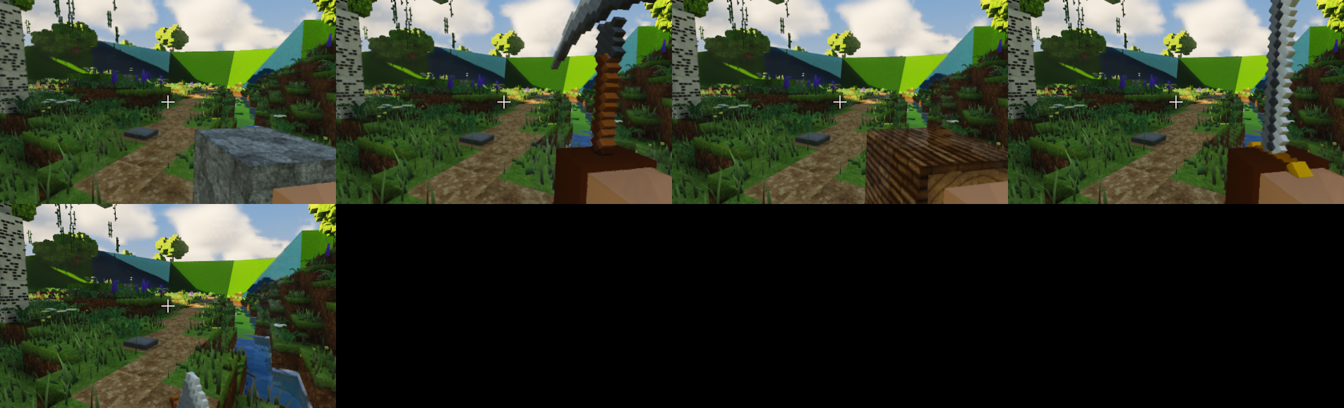
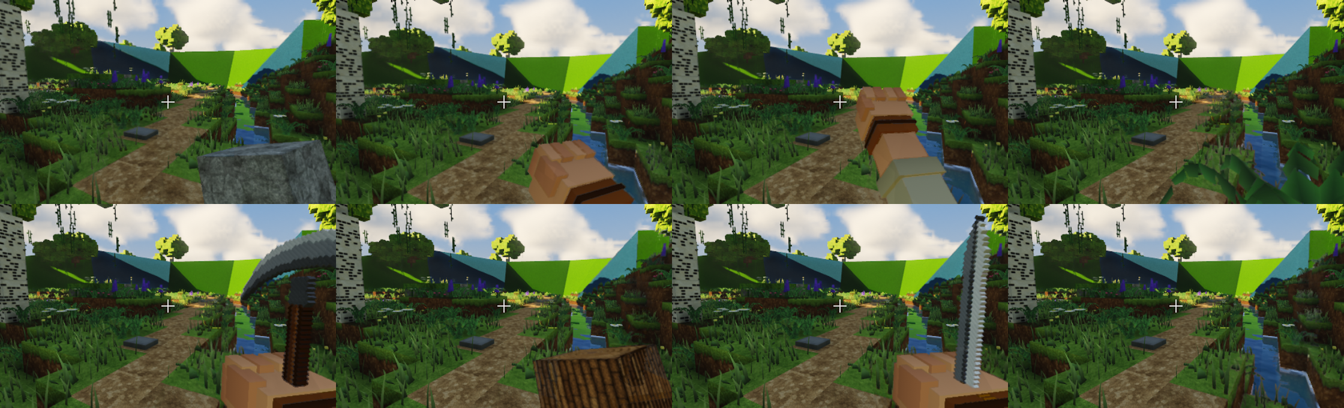
Inventaire au glisser-déposer, poing et bloc visibles en première personne
Claude-Session: https://claude.ai/code/session_01KceHewVNbQWqUpi5GGYtf6

diff --git a/dist/index.html b/dist/index.html
@@ -31,7 +31,7 @@ input,select{width:100%;background:#0005;border:1px solid var(--line);color:var(
 #loading{background:#10140d;flex-direction:column;gap:16px}#loading h1{font-size:clamp(26px,5vw,44px);margin:0;letter-spacing:.03em}#loadTrack{width:min(340px,70vw);height:8px;border-radius:4px;background:#ffffff1c;overflow:hidden}#loadbar{height:100%;width:0;background:var(--accent);transition:width .2s}
 #inv .card{width:min(620px,100%)}#inv h2{display:flex;justify-content:space-between;align-items:center;gap:12px}#inv h2 button{font-size:13px;padding:6px 10px}
 .grid9{display:grid;grid-template-columns:repeat(9,1fr);gap:4px}#invBar{margin-top:10px;padding-top:10px;border-top:1px solid var(--line)}
-.cell{padding:0;border:2px solid transparent;cursor:pointer;min-width:0;color:var(--ink)}.cell.on{border-color:var(--accent);background:#9ed44a33}.cell.sel{box-shadow:inset 0 0 0 1px #fff8}.cell span{position:absolute;left:0;right:0;bottom:1px;font:600 9.5px/1.1 system-ui;text-align:center;text-shadow:0 1px 2px #000;pointer-events:none}.cell img{inset:6%;width:88%;height:88%}
+.cell{padding:0;border:2px solid transparent;cursor:grab;min-width:0;color:var(--ink);touch-action:none;user-select:none;-webkit-user-select:none;-webkit-touch-callout:none}.cell.over{border-color:var(--accent);background:#9ed44a33}.cell.lifted img,.cell.lifted b{opacity:.25}.cell.sel{box-shadow:inset 0 0 0 1px #fff8}#dragGhost{position:fixed;width:60px;height:60px;transform:translate(-50%,-50%);pointer-events:none;z-index:8;filter:drop-shadow(0 4px 6px #0009)}.cell span{position:absolute;left:0;right:0;bottom:1px;font:600 9.5px/1.1 system-ui;text-align:center;text-shadow:0 1px 2px #000;pointer-events:none}.cell img{inset:6%;width:88%;height:88%}
 #catTabs{display:flex;flex-wrap:wrap;gap:4px;margin:6px 0 8px}.tab{padding:6px 10px;font-size:13px}.tab.on{background:#6b9a2b;border-color:#8cbe41}#catItems{display:grid;grid-template-columns:repeat(auto-fill,minmax(68px,1fr));gap:4px}#invTip{min-height:18px;font-size:12px;opacity:.85;margin-top:6px}#inv p{margin:6px 0 0;font-size:12.5px;opacity:.75}
 #tInv{top:calc(62px + env(safe-area-inset-top,0px));bottom:auto!important;right:162px!important;width:64px!important;height:36px!important;border-radius:8px!important}#tView{top:calc(62px + env(safe-area-inset-top,0px));bottom:auto!important;right:234px!important;width:64px!important;height:36px!important;border-radius:8px!important}#tRun,#tLow{left:18px;right:auto!important;bottom:210px;width:64px!important;height:48px!important;border-radius:8px!important}#tLow{left:90px}#tRun.on,#tLow.on{background:#6b9a2b}#tFly,#tDown{display:none;left:18px;right:auto!important;bottom:150px;width:64px!important;height:48px!important;border-radius:8px!important}#tDown{left:90px}.crea #tFly,.crea.flying #tDown{display:block}
 #fatal{position:fixed;inset:0;display:none;align-items:center;justify-content:center;background:#10140d;padding:24px;text-align:center;z-index:9}#fatal.on{display:flex}
@@ -60,8 +60,8 @@ input,select{width:100%;background:#0005;border:1px solid var(--line);color:var(
 <div class="row"><label for="inFov">Champ de vision</label><input id="inFov" type="range" min="55" max="100"></div><div class="row"><label for="inSens">Sensibilité</label><input id="inSens" type="range" min=".3" max="2.5" step=".1"></div>
 <h3>Commandes</h3><div class="keys"><b>ZQSD / WASD</b><span>se déplacer</span><b>Espace</b><span>sauter, remonter dans l'eau</span><b>Maj / Ctrl</b><span>sprint / s'accroupir</span><b>1 à 9, molette</b><span>objet sélectionné</span><b>E</b><span>inventaire</span><b>G</b><span>survie ou créatif</span><b>F, Espace 2 fois</b><span>voler en créatif</span><b>Ctrl</b><span>descendre en vol</span><b>C</b><span>changer de caméra</span><b>R</b><span>orientation du bloc</span><b>T / Y</b><span>avancer l'heure / figer le temps</span><b>F3</b><span>profilage</span><b>F5</b><span>sauvegarde rapide</span></div></div></div>
 <div class="layer" id="inv"><div class="card"><h2><span id="invTitle">Inventaire</span><button id="invClose">Fermer</button></h2>
-<div id="invCreative" hidden><div id="catTabs"></div><div id="catItems"></div><div id="invTip">Touchez un objet pour le mettre dans la case sélectionnée.</div></div>
-<div class="grid9" id="invBag" style="margin-top:12px"></div><div class="grid9" id="invBar"></div><p>Touchez une case, puis une autre, pour échanger leur contenu.</p></div></div>
+<div id="invCreative" hidden><div id="catTabs"></div><div id="catItems"></div><div id="invTip">Glissez un objet vers une case, ou touchez-le pour remplir la case sélectionnée. Glissez une case hors de la grille pour la vider.</div></div>
+<div class="grid9" id="invBag" style="margin-top:12px"></div><div class="grid9" id="invBar"></div><p>Glissez un objet vers une case. Touchez une case de la barre pour la sélectionner.</p></div></div><img id="dragGhost" alt="" hidden>
 <div class="layer on" id="loading"><h1>A LIVING WORLD</h1><div id="loadTrack"><div id="loadbar"></div></div></div>
 <div id="fatal"></div>
 <script>(()=>{// Core/noise.js — hachage et bruits déterministes. Aucun appel à Math.random dans la génération :
@@ -2299,9 +2299,18 @@ function buildCharacter(r) {
       Bx(o, [-0.09, -0.26, -0.1, 0.09, 0, 0.1], C.shirt); Bx(o, [-0.1, -0.32, -0.11, 0.1, -0.26, 0.11], C.shirt2); Bx(o, [-0.085, -0.56, -0.09, 0.085, -0.32, 0.09], C.skin); Bx(o, [-0.1, -0.66, -0.11, 0.1, -0.54, 0.11], C.glove);
     }),
   };
+  // Avant-bras vu en première personne : poing lisible, doigts repliés, protège-poignet de cuir.
+  parts.fist = part((o) => {
+    const K = [0.86, 0.62, 0.46], LT = [0.62, 0.38, 0.2];
+    Bx(o, [-0.08, -0.3, -0.085, 0.08, 0, 0.085], C.shirt); Bx(o, [-0.095, -0.34, -0.1, 0.095, -0.28, 0.1], C.shirt2);
+    Bx(o, [-0.08, -0.5, -0.08, 0.08, -0.34, 0.08], C.skin); Bx(o, [-0.095, -0.56, -0.095, 0.095, -0.48, 0.095], LT); Bx(o, [-0.098, -0.535, -0.098, 0.098, -0.515, 0.098], C.strap);
+    Bx(o, [-0.11, -0.72, -0.1, 0.11, -0.56, 0.1], C.skin);
+    for (let i = 0; i < 4; i++) { const x0 = -0.11 + i * 0.056; Bx(o, [x0 + 0.003, -0.74, 0.085, x0 + 0.05, -0.655, 0.125], i & 1 ? C.skin : K); Bx(o, [x0 + 0.003, -0.755, -0.03, x0 + 0.05, -0.72, 0.09], i & 1 ? K : C.skin); }
+    Bx(o, [0.085, -0.685, 0.02, 0.135, -0.59, 0.12], K);
+  });
   parts.legR = parts.legL;
   const all = new VBuf(5000), rng = {};
-  for (const n of ['torso', 'head', 'legL', 'armL', 'armR']) {
+  for (const n of ['torso', 'head', 'legL', 'armL', 'armR', 'fist']) {
     const p = parts[n], st = all.n; all.u8.length; for (let i = 0; i < p.n; i++) { /* copie */ }
     if (all.n + p.n > all.cap) { const o = all.u8; all.alloc((all.n + p.n) * 2); all.u8.set(o); }
     all.u8.set(p.u8.subarray(0, p.n * 20), all.n * 20); all.n += p.n;
@@ -2355,15 +2364,23 @@ class CharacterAnim {
     if (held) out.push({ mesh: held.mesh, model: M.mul(armR, HOLD[held.kind]), count: held.count, offset: held.offset, hero: true, local: held.local });
     return out;
   }
-  // Bras vu à la première personne : mêmes objets, attachés à la caméra.
+  // Première personne : poing si la main est vide, bloc seul s'il y en a un, bras et outil sinon.
   viewActors(invView, held) {
     const m = this.m, s = Math.sin(this.phase), c = Math.cos(this.phase * 0.5), w = this.walk * (1 - this.air), V = M.mul(invView, M.trs(0, 0, 0, Math.PI));
-    const strike = this.swing > 0 ? Math.sin(this.swing * Math.PI) : 0, push = Math.sin(this.punch * Math.PI);
-    const x = -0.25 + c * 0.022 * w - 0.05 * this.run, y = -0.2 - Math.abs(s) * 0.022 * w - 0.05 * this.low + 0.07 * this.air * (this.rise - 0.5) - 0.06 * strike;
-    const z = -0.08 + 0.2 * push + 0.12 * strike, rx = -1.66 + 0.22 * this.run + 0.85 * strike - 0.3 * push;
-    const arm = M.mul(V, M.trs(x, y, z, 0.2 + 0.3 * strike, rx, 0.58)), r = m.rng.armR;
-    const out = [{ mesh: m.mesh, model: arm, count: r.count, offset: r.offset, hero: true, view: true }];
-    if (held) out.push({ mesh: held.mesh, model: M.mul(M.mul(arm, HOLD[held.kind]), held.kind === 'tool' ? M.trs(0, 0, 0, 0, 0, 0.5) : held.kind === 'block' ? M.trs(0.04, 0.04, 0.04, 0, 0, 0.72) : M.id()), count: held.count, offset: held.offset, hero: true, view: true, local: held.local });
+    const strike = this.swing > 0 ? Math.sin(this.swing * Math.PI) : 0, push = Math.sin(this.punch * Math.PI), r = m.rng.fist, out = [];
+    const bobX = c * 0.022 * w - 0.05 * this.run, bobY = -Math.abs(s) * 0.022 * w - 0.05 * this.low + 0.07 * this.air * (this.rise - 0.5);
+    const hand = (mat) => out.push({ mesh: m.mesh, model: mat, count: r.count, offset: r.offset, hero: true, view: true });
+    const item = (mat) => out.push({ mesh: held.mesh, model: mat, count: held.count, offset: held.offset, hero: true, view: true, local: held.local });
+    if (!held) {
+      const hit = Math.max(strike, push); // coup de poing vers l'avant
+      hand(M.mul(V, M.trs(-0.3 + bobX + 0.1 * hit, -0.37 + bobY + 0.05 * hit, 0.1 + 0.2 * hit, 0.42 - 0.2 * hit, -2.02 - 0.3 * hit, 0.62)));
+    } else if (held.kind === 'tool') {
+      const arm = M.mul(V, M.trs(-0.25 + bobX, -0.2 + bobY - 0.06 * strike, -0.08 + 0.2 * push + 0.12 * strike, 0.2 + 0.3 * strike, -1.66 + 0.22 * this.run + 0.85 * strike - 0.3 * push, 0.58));
+      hand(arm); item(M.mul(M.mul(arm, HOLD.tool), M.trs(0, 0, 0, 0, 0, 0.5)));
+    } else {
+      const sc = held.kind === 'block' ? 0.26 : 0.46, base = M.mul(V, M.trs(-0.29 + bobX + 0.05 * strike, -0.2 + bobY - 0.1 * strike + 0.03 * push, 0.52 + 0.12 * push + 0.08 * strike, 0.62 + 0.25 * strike, 0.26 + 0.6 * strike - 0.3 * push, sc));
+      item(M.mul(base, M.trs(-0.5, held.kind === 'block' ? -0.5 : -0.4, -0.5, 0)));
+    }
     return out;
   }
 }
@@ -2542,36 +2559,61 @@ class HUD {
   toast(t) { const e = $('toast'); e.textContent = t; e.classList.add('on'); clearTimeout(this.tt); this.tt = setTimeout(() => e.classList.remove('on'), 2200); }
 }
 
-// Inventaire : toucher une case puis une autre échange leur contenu, à la souris comme au doigt.
+// Inventaire au glisser-déposer : mêmes événements pour la souris et le doigt.
 class InventoryUI {
   constructor(game) {
-    this.g = game; this.pick = null; this.cat = 0; this.cells = [];
-    const mk = (root, i) => { const d = document.createElement('button'); d.className = 'slot cell'; d.innerHTML = '<img alt=""><b></b>'; d.onclick = () => this.tap(i); root.appendChild(d); this.cells[i] = d; };
+    this.g = game; this.cat = 0; this.cells = []; this.drag = null;
+    const mk = (root, i) => { const d = document.createElement('div'); d.className = 'slot cell'; d.dataset.i = i; d.innerHTML = '<img alt="" draggable="false"><b></b>'; d.addEventListener('pointerdown', (e) => this.start(e, { slot: i })); root.appendChild(d); this.cells[i] = d; };
     for (let i = 9; i < 36; i++) mk($('invBag'), i);
     for (let i = 0; i < 9; i++) mk($('invBar'), i);
     CATEGORIES.forEach(([n], i) => { const b = document.createElement('button'); b.textContent = n; b.className = 'tab'; b.onclick = () => { this.cat = i; this.render(); }; $('catTabs').appendChild(b); });
+    window.addEventListener('pointermove', (e) => this.move(e)); window.addEventListener('pointerup', (e) => this.end(e)); window.addEventListener('pointercancel', () => this.cancel());
   }
-  open(on) { $('inv').classList.toggle('on', on); this.pick = null; if (on) this.render(); }
-  tap(i) {
-    const g = this.g, inv = g.inv;
-    if (this.pick === null) { if (inv[i]) this.pick = i; this.render(); return; }
-    const a = this.pick, A = inv[a], Z = inv[i]; this.pick = null;
-    if (a !== i) {
-      if (A && Z && A.item === Z.item && A.n !== undefined && !g.creative) { const m = Math.min(STACK - Z.n, A.n); Z.n += m; A.n -= m; if (A.n <= 0) inv[a] = null; }
-      else { inv[a] = Z; inv[i] = A; }
+  open(on) { $('inv').classList.toggle('on', on); this.cancel(); if (on) this.render(); }
+  start(e, src) {
+    const it = src.slot !== undefined ? this.g.inv[src.slot] : src; if (!it || e.button > 0) return;
+    e.preventDefault(); this.drag = { src, id: e.pointerId, x: e.clientX, y: e.clientY, moved: false, item: it.item || src.catalog };
+  }
+  move(e) {
+    const d = this.drag; if (!d || e.pointerId !== d.id) return;
+    if (!d.moved && Math.hypot(e.clientX - d.x, e.clientY - d.y) > 6) {
+      d.moved = true; const g = $('dragGhost'); g.src = this.g.hud.icons[d.item]; g.hidden = false;
+      if (d.src.slot !== undefined) this.cells[d.src.slot].classList.add('lifted');
     }
-    g.refreshInv(); this.render();
+    if (!d.moved) return;
+    const g = $('dragGhost'); g.style.left = e.clientX + 'px'; g.style.top = e.clientY + 'px';
+    this.cells.forEach((c) => c.classList.remove('over')); const t = this.cellAt(e); if (t) t.classList.add('over');
   }
-  grant(name) { const g = this.g, t = this.pick !== null ? this.pick : g.sel; g.inv[t] = ITEMS[name].block !== undefined ? { item: name, n: STACK } : { item: name }; this.pick = null; g.refreshInv(); this.render(); $('invTip').textContent = ITEMS[name].name + ' ajouté à la case ' + (t < 9 ? t + 1 : 'du sac'); }
+  cellAt(e) { const el = document.elementFromPoint(e.clientX, e.clientY); return el && el.closest ? el.closest('.cell[data-i]') : null; }
+  end(e) {
+    const d = this.drag; if (!d || e.pointerId !== d.id) return;
+    const t = this.cellAt(e), to = t ? +t.dataset.i : null;
+    if (!d.moved) { // simple toucher : choisit la case active, ou remplit celle-ci depuis le catalogue
+      if (d.src.catalog) this.put(d.src.catalog, this.g.sel); else if (d.src.slot < 9) this.g.select(d.src.slot);
+    } else if (to !== null) {
+      if (d.src.catalog) this.put(d.src.catalog, to); else this.moveStack(d.src.slot, to);
+    } else if (this.g.creative && d.src.slot !== undefined && !(document.elementFromPoint(e.clientX, e.clientY) || document.body).closest('#invBag,#invBar')) {
+      this.g.inv[d.src.slot] = null; $('invTip').textContent = 'Objet retiré de la case.'; this.g.refreshInv(); // en créatif, le stock est illimité : jeter vide simplement la case
+    }
+    this.cancel(); this.render();
+  }
+  cancel() { this.drag = null; const g = $('dragGhost'); if (g) g.hidden = true; this.cells.forEach((c) => c.classList.remove('over', 'lifted')); }
+  moveStack(a, i) {
+    const g = this.g, inv = g.inv, A = inv[a], Z = inv[i];
+    if (a === i || !A) return;
+    if (Z && A.item === Z.item && A.n !== undefined && !g.creative) { const m = Math.min(STACK - Z.n, A.n); Z.n += m; A.n -= m; if (A.n <= 0) inv[a] = null; } else { inv[a] = Z; inv[i] = A; }
+    g.refreshInv();
+  }
+  put(name, t) { const g = this.g; g.inv[t] = ITEMS[name].block !== undefined ? { item: name, n: STACK } : { item: name }; g.refreshInv(); $('invTip').textContent = ITEMS[name].name + (t < 9 ? ' dans la case ' + (t + 1) : ' dans le sac'); }
   render() {
     const g = this.g;
-    this.cells.forEach((c, i) => { g.hud.paint(c, g.creative && g.inv[i] && g.inv[i].n !== undefined ? { item: g.inv[i].item } : g.inv[i]); c.classList.toggle('on', i === this.pick); c.classList.toggle('sel', i === g.sel); });
+    this.cells.forEach((c, i) => { g.hud.paint(c, g.creative && g.inv[i] && g.inv[i].n !== undefined ? { item: g.inv[i].item } : g.inv[i]); c.classList.toggle('sel', i === g.sel); c.title = g.inv[i] ? ITEMS[g.inv[i].item].name : ''; });
     $('invCreative').hidden = !g.creative;
     $('invTitle').textContent = g.creative ? 'Inventaire, mode créatif' : 'Inventaire';
     if (!g.creative) return;
     [...$('catTabs').children].forEach((b, i) => b.classList.toggle('on', i === this.cat));
     const list = $('catItems'); list.textContent = '';
-    for (const name of CATEGORIES[this.cat][1]) { const b = document.createElement('button'); b.className = 'slot cell'; b.title = ITEMS[name].name; b.innerHTML = `<img alt="${ITEMS[name].name}" src="${g.hud.icons[name]}"><span>${ITEMS[name].name}</span>`; b.onclick = () => this.grant(name); list.appendChild(b); }
+    for (const name of CATEGORIES[this.cat][1]) { const b = document.createElement('div'); b.className = 'slot cell cat'; b.title = ITEMS[name].name; b.dataset.item = name; b.innerHTML = `<img alt="${ITEMS[name].name}" draggable="false" src="${g.hud.icons[name]}"><span>${ITEMS[name].name}</span>`; b.addEventListener('pointerdown', (e) => this.start(e, { catalog: name })); list.appendChild(b); }
   }
 }
 

diff --git a/src/game/ui.js b/src/game/ui.js
@@ -28,35 +28,60 @@ export class HUD {
   toast(t) { const e = $('toast'); e.textContent = t; e.classList.add('on'); clearTimeout(this.tt); this.tt = setTimeout(() => e.classList.remove('on'), 2200); }
 }
 
-// Inventaire : toucher une case puis une autre échange leur contenu, à la souris comme au doigt.
+// Inventaire au glisser-déposer : mêmes événements pour la souris et le doigt.
 export class InventoryUI {
   constructor(game) {
-    this.g = game; this.pick = null; this.cat = 0; this.cells = [];
-    const mk = (root, i) => { const d = document.createElement('button'); d.className = 'slot cell'; d.innerHTML = '<img alt=""><b></b>'; d.onclick = () => this.tap(i); root.appendChild(d); this.cells[i] = d; };
+    this.g = game; this.cat = 0; this.cells = []; this.drag = null;
+    const mk = (root, i) => { const d = document.createElement('div'); d.className = 'slot cell'; d.dataset.i = i; d.innerHTML = '<img alt="" draggable="false"><b></b>'; d.addEventListener('pointerdown', (e) => this.start(e, { slot: i })); root.appendChild(d); this.cells[i] = d; };
     for (let i = 9; i < 36; i++) mk($('invBag'), i);
     for (let i = 0; i < 9; i++) mk($('invBar'), i);
     CATEGORIES.forEach(([n], i) => { const b = document.createElement('button'); b.textContent = n; b.className = 'tab'; b.onclick = () => { this.cat = i; this.render(); }; $('catTabs').appendChild(b); });
+    window.addEventListener('pointermove', (e) => this.move(e)); window.addEventListener('pointerup', (e) => this.end(e)); window.addEventListener('pointercancel', () => this.cancel());
   }
-  open(on) { $('inv').classList.toggle('on', on); this.pick = null; if (on) this.render(); }
-  tap(i) {
-    const g = this.g, inv = g.inv;
-    if (this.pick === null) { if (inv[i]) this.pick = i; this.render(); return; }
-    const a = this.pick, A = inv[a], Z = inv[i]; this.pick = null;
-    if (a !== i) {
-      if (A && Z && A.item === Z.item && A.n !== undefined && !g.creative) { const m = Math.min(STACK - Z.n, A.n); Z.n += m; A.n -= m; if (A.n <= 0) inv[a] = null; }
-      else { inv[a] = Z; inv[i] = A; }
+  open(on) { $('inv').classList.toggle('on', on); this.cancel(); if (on) this.render(); }
+  start(e, src) {
+    const it = src.slot !== undefined ? this.g.inv[src.slot] : src; if (!it || e.button > 0) return;
+    e.preventDefault(); this.drag = { src, id: e.pointerId, x: e.clientX, y: e.clientY, moved: false, item: it.item || src.catalog };
+  }
+  move(e) {
+    const d = this.drag; if (!d || e.pointerId !== d.id) return;
+    if (!d.moved && Math.hypot(e.clientX - d.x, e.clientY - d.y) > 6) {
+      d.moved = true; const g = $('dragGhost'); g.src = this.g.hud.icons[d.item]; g.hidden = false;
+      if (d.src.slot !== undefined) this.cells[d.src.slot].classList.add('lifted');
     }
-    g.refreshInv(); this.render();
+    if (!d.moved) return;
+    const g = $('dragGhost'); g.style.left = e.clientX + 'px'; g.style.top = e.clientY + 'px';
+    this.cells.forEach((c) => c.classList.remove('over')); const t = this.cellAt(e); if (t) t.classList.add('over');
   }
-  grant(name) { const g = this.g, t = this.pick !== null ? this.pick : g.sel; g.inv[t] = ITEMS[name].block !== undefined ? { item: name, n: STACK } : { item: name }; this.pick = null; g.refreshInv(); this.render(); $('invTip').textContent = ITEMS[name].name + ' ajouté à la case ' + (t < 9 ? t + 1 : 'du sac'); }
+  cellAt(e) { const el = document.elementFromPoint(e.clientX, e.clientY); return el && el.closest ? el.closest('.cell[data-i]') : null; }
+  end(e) {
+    const d = this.drag; if (!d || e.pointerId !== d.id) return;
+    const t = this.cellAt(e), to = t ? +t.dataset.i : null;
+    if (!d.moved) { // simple toucher : choisit la case active, ou remplit celle-ci depuis le catalogue
+      if (d.src.catalog) this.put(d.src.catalog, this.g.sel); else if (d.src.slot < 9) this.g.select(d.src.slot);
+    } else if (to !== null) {
+      if (d.src.catalog) this.put(d.src.catalog, to); else this.moveStack(d.src.slot, to);
+    } else if (this.g.creative && d.src.slot !== undefined && !(document.elementFromPoint(e.clientX, e.clientY) || document.body).closest('#invBag,#invBar')) {
+      this.g.inv[d.src.slot] = null; $('invTip').textContent = 'Objet retiré de la case.'; this.g.refreshInv(); // en créatif, le stock est illimité : jeter vide simplement la case
+    }
+    this.cancel(); this.render();
+  }
+  cancel() { this.drag = null; const g = $('dragGhost'); if (g) g.hidden = true; this.cells.forEach((c) => c.classList.remove('over', 'lifted')); }
+  moveStack(a, i) {
+    const g = this.g, inv = g.inv, A = inv[a], Z = inv[i];
+    if (a === i || !A) return;
+    if (Z && A.item === Z.item && A.n !== undefined && !g.creative) { const m = Math.min(STACK - Z.n, A.n); Z.n += m; A.n -= m; if (A.n <= 0) inv[a] = null; } else { inv[a] = Z; inv[i] = A; }
+    g.refreshInv();
+  }
+  put(name, t) { const g = this.g; g.inv[t] = ITEMS[name].block !== undefined ? { item: name, n: STACK } : { item: name }; g.refreshInv(); $('invTip').textContent = ITEMS[name].name + (t < 9 ? ' dans la case ' + (t + 1) : ' dans le sac'); }
   render() {
     const g = this.g;
-    this.cells.forEach((c, i) => { g.hud.paint(c, g.creative && g.inv[i] && g.inv[i].n !== undefined ? { item: g.inv[i].item } : g.inv[i]); c.classList.toggle('on', i === this.pick); c.classList.toggle('sel', i === g.sel); });
+    this.cells.forEach((c, i) => { g.hud.paint(c, g.creative && g.inv[i] && g.inv[i].n !== undefined ? { item: g.inv[i].item } : g.inv[i]); c.classList.toggle('sel', i === g.sel); c.title = g.inv[i] ? ITEMS[g.inv[i].item].name : ''; });
     $('invCreative').hidden = !g.creative;
     $('invTitle').textContent = g.creative ? 'Inventaire, mode créatif' : 'Inventaire';
     if (!g.creative) return;
     [...$('catTabs').children].forEach((b, i) => b.classList.toggle('on', i === this.cat));
     const list = $('catItems'); list.textContent = '';
-    for (const name of CATEGORIES[this.cat][1]) { const b = document.createElement('button'); b.className = 'slot cell'; b.title = ITEMS[name].name; b.innerHTML = `<img alt="${ITEMS[name].name}" src="${g.hud.icons[name]}"><span>${ITEMS[name].name}</span>`; b.onclick = () => this.grant(name); list.appendChild(b); }
+    for (const name of CATEGORIES[this.cat][1]) { const b = document.createElement('div'); b.className = 'slot cell cat'; b.title = ITEMS[name].name; b.dataset.item = name; b.innerHTML = `<img alt="${ITEMS[name].name}" draggable="false" src="${g.hud.icons[name]}"><span>${ITEMS[name].name}</span>`; b.addEventListener('pointerdown', (e) => this.start(e, { catalog: name })); list.appendChild(b); }
   }
 }

diff --git a/src/index.template.html b/src/index.template.html
@@ -31,7 +31,7 @@ input,select{width:100%;background:#0005;border:1px solid var(--line);color:var(
 #loading{background:#10140d;flex-direction:column;gap:16px}#loading h1{font-size:clamp(26px,5vw,44px);margin:0;letter-spacing:.03em}#loadTrack{width:min(340px,70vw);height:8px;border-radius:4px;background:#ffffff1c;overflow:hidden}#loadbar{height:100%;width:0;background:var(--accent);transition:width .2s}
 #inv .card{width:min(620px,100%)}#inv h2{display:flex;justify-content:space-between;align-items:center;gap:12px}#inv h2 button{font-size:13px;padding:6px 10px}
 .grid9{display:grid;grid-template-columns:repeat(9,1fr);gap:4px}#invBar{margin-top:10px;padding-top:10px;border-top:1px solid var(--line)}
-.cell{padding:0;border:2px solid transparent;cursor:pointer;min-width:0;color:var(--ink)}.cell.on{border-color:var(--accent);background:#9ed44a33}.cell.sel{box-shadow:inset 0 0 0 1px #fff8}.cell span{position:absolute;left:0;right:0;bottom:1px;font:600 9.5px/1.1 system-ui;text-align:center;text-shadow:0 1px 2px #000;pointer-events:none}.cell img{inset:6%;width:88%;height:88%}
+.cell{padding:0;border:2px solid transparent;cursor:grab;min-width:0;color:var(--ink);touch-action:none;user-select:none;-webkit-user-select:none;-webkit-touch-callout:none}.cell.over{border-color:var(--accent);background:#9ed44a33}.cell.lifted img,.cell.lifted b{opacity:.25}.cell.sel{box-shadow:inset 0 0 0 1px #fff8}#dragGhost{position:fixed;width:60px;height:60px;transform:translate(-50%,-50%);pointer-events:none;z-index:8;filter:drop-shadow(0 4px 6px #0009)}.cell span{position:absolute;left:0;right:0;bottom:1px;font:600 9.5px/1.1 system-ui;text-align:center;text-shadow:0 1px 2px #000;pointer-events:none}.cell img{inset:6%;width:88%;height:88%}
 #catTabs{display:flex;flex-wrap:wrap;gap:4px;margin:6px 0 8px}.tab{padding:6px 10px;font-size:13px}.tab.on{background:#6b9a2b;border-color:#8cbe41}#catItems{display:grid;grid-template-columns:repeat(auto-fill,minmax(68px,1fr));gap:4px}#invTip{min-height:18px;font-size:12px;opacity:.85;margin-top:6px}#inv p{margin:6px 0 0;font-size:12.5px;opacity:.75}
 #tInv{top:calc(62px + env(safe-area-inset-top,0px));bottom:auto!important;right:162px!important;width:64px!important;height:36px!important;border-radius:8px!important}#tView{top:calc(62px + env(safe-area-inset-top,0px));bottom:auto!important;right:234px!important;width:64px!important;height:36px!important;border-radius:8px!important}#tRun,#tLow{left:18px;right:auto!important;bottom:210px;width:64px!important;height:48px!important;border-radius:8px!important}#tLow{left:90px}#tRun.on,#tLow.on{background:#6b9a2b}#tFly,#tDown{display:none;left:18px;right:auto!important;bottom:150px;width:64px!important;height:48px!important;border-radius:8px!important}#tDown{left:90px}.crea #tFly,.crea.flying #tDown{display:block}
 #fatal{position:fixed;inset:0;display:none;align-items:center;justify-content:center;background:#10140d;padding:24px;text-align:center;z-index:9}#fatal.on{display:flex}
@@ -60,8 +60,8 @@ input,select{width:100%;background:#0005;border:1px solid var(--line);color:var(
 <div class="row"><label for="inFov">Champ de vision</label><input id="inFov" type="range" min="55" max="100"></div><div class="row"><label for="inSens">Sensibilité</label><input id="inSens" type="range" min=".3" max="2.5" step=".1"></div>
 <h3>Commandes</h3><div class="keys"><b>ZQSD / WASD</b><span>se déplacer</span><b>Espace</b><span>sauter, remonter dans l'eau</span><b>Maj / Ctrl</b><span>sprint / s'accroupir</span><b>1 à 9, molette</b><span>objet sélectionné</span><b>E</b><span>inventaire</span><b>G</b><span>survie ou créatif</span><b>F, Espace 2 fois</b><span>voler en créatif</span><b>Ctrl</b><span>descendre en vol</span><b>C</b><span>changer de caméra</span><b>R</b><span>orientation du bloc</span><b>T / Y</b><span>avancer l'heure / figer le temps</span><b>F3</b><span>profilage</span><b>F5</b><span>sauvegarde rapide</span></div></div></div>
 <div class="layer" id="inv"><div class="card"><h2><span id="invTitle">Inventaire</span><button id="invClose">Fermer</button></h2>
-<div id="invCreative" hidden><div id="catTabs"></div><div id="catItems"></div><div id="invTip">Touchez un objet pour le mettre dans la case sélectionnée.</div></div>
-<div class="grid9" id="invBag" style="margin-top:12px"></div><div class="grid9" id="invBar"></div><p>Touchez une case, puis une autre, pour échanger leur contenu.</p></div></div>
+<div id="invCreative" hidden><div id="catTabs"></div><div id="catItems"></div><div id="invTip">Glissez un objet vers une case, ou touchez-le pour remplir la case sélectionnée. Glissez une case hors de la grille pour la vider.</div></div>
+<div class="grid9" id="invBag" style="margin-top:12px"></div><div class="grid9" id="invBar"></div><p>Glissez un objet vers une case. Touchez une case de la barre pour la sélectionner.</p></div></div><img id="dragGhost" alt="" hidden>
 <div class="layer on" id="loading"><h1>A LIVING WORLD</h1><div id="loadTrack"><div id="loadbar"></div></div></div>
 <div id="fatal"></div>
 <script>__GAME__</script>

diff --git a/src/game/character.js b/src/game/character.js
@@ -36,9 +36,18 @@ export function buildCharacter(r) {
       Bx(o, [-0.09, -0.26, -0.1, 0.09, 0, 0.1], C.shirt); Bx(o, [-0.1, -0.32, -0.11, 0.1, -0.26, 0.11], C.shirt2); Bx(o, [-0.085, -0.56, -0.09, 0.085, -0.32, 0.09], C.skin); Bx(o, [-0.1, -0.66, -0.11, 0.1, -0.54, 0.11], C.glove);
     }),
   };
+  // Avant-bras vu en première personne : poing lisible, doigts repliés, protège-poignet de cuir.
+  parts.fist = part((o) => {
+    const K = [0.86, 0.62, 0.46], LT = [0.62, 0.38, 0.2];
+    Bx(o, [-0.08, -0.3, -0.085, 0.08, 0, 0.085], C.shirt); Bx(o, [-0.095, -0.34, -0.1, 0.095, -0.28, 0.1], C.shirt2);
+    Bx(o, [-0.08, -0.5, -0.08, 0.08, -0.34, 0.08], C.skin); Bx(o, [-0.095, -0.56, -0.095, 0.095, -0.48, 0.095], LT); Bx(o, [-0.098, -0.535, -0.098, 0.098, -0.515, 0.098], C.strap);
+    Bx(o, [-0.11, -0.72, -0.1, 0.11, -0.56, 0.1], C.skin);
+    for (let i = 0; i < 4; i++) { const x0 = -0.11 + i * 0.056; Bx(o, [x0 + 0.003, -0.74, 0.085, x0 + 0.05, -0.655, 0.125], i & 1 ? C.skin : K); Bx(o, [x0 + 0.003, -0.755, -0.03, x0 + 0.05, -0.72, 0.09], i & 1 ? K : C.skin); }
+    Bx(o, [0.085, -0.685, 0.02, 0.135, -0.59, 0.12], K);
+  });
   parts.legR = parts.legL;
   const all = new VBuf(5000), rng = {};
-  for (const n of ['torso', 'head', 'legL', 'armL', 'armR']) {
+  for (const n of ['torso', 'head', 'legL', 'armL', 'armR', 'fist']) {
     const p = parts[n], st = all.n; all.u8.length; for (let i = 0; i < p.n; i++) { /* copie */ }
     if (all.n + p.n > all.cap) { const o = all.u8; all.alloc((all.n + p.n) * 2); all.u8.set(o); }
     all.u8.set(p.u8.subarray(0, p.n * 20), all.n * 20); all.n += p.n;
@@ -92,15 +101,23 @@ export class CharacterAnim {
     if (held) out.push({ mesh: held.mesh, model: M.mul(armR, HOLD[held.kind]), count: held.count, offset: held.offset, hero: true, local: held.local });
     return out;
   }
-  // Bras vu à la première personne : mêmes objets, attachés à la caméra.
+  // Première personne : poing si la main est vide, bloc seul s'il y en a un, bras et outil sinon.
   viewActors(invView, held) {
     const m = this.m, s = Math.sin(this.phase), c = Math.cos(this.phase * 0.5), w = this.walk * (1 - this.air), V = M.mul(invView, M.trs(0, 0, 0, Math.PI));
-    const strike = this.swing > 0 ? Math.sin(this.swing * Math.PI) : 0, push = Math.sin(this.punch * Math.PI);
-    const x = -0.25 + c * 0.022 * w - 0.05 * this.run, y = -0.2 - Math.abs(s) * 0.022 * w - 0.05 * this.low + 0.07 * this.air * (this.rise - 0.5) - 0.06 * strike;
-    const z = -0.08 + 0.2 * push + 0.12 * strike, rx = -1.66 + 0.22 * this.run + 0.85 * strike - 0.3 * push;
-    const arm = M.mul(V, M.trs(x, y, z, 0.2 + 0.3 * strike, rx, 0.58)), r = m.rng.armR;
-    const out = [{ mesh: m.mesh, model: arm, count: r.count, offset: r.offset, hero: true, view: true }];
-    if (held) out.push({ mesh: held.mesh, model: M.mul(M.mul(arm, HOLD[held.kind]), held.kind === 'tool' ? M.trs(0, 0, 0, 0, 0, 0.5) : held.kind === 'block' ? M.trs(0.04, 0.04, 0.04, 0, 0, 0.72) : M.id()), count: held.count, offset: held.offset, hero: true, view: true, local: held.local });
+    const strike = this.swing > 0 ? Math.sin(this.swing * Math.PI) : 0, push = Math.sin(this.punch * Math.PI), r = m.rng.fist, out = [];
+    const bobX = c * 0.022 * w - 0.05 * this.run, bobY = -Math.abs(s) * 0.022 * w - 0.05 * this.low + 0.07 * this.air * (this.rise - 0.5);
+    const hand = (mat) => out.push({ mesh: m.mesh, model: mat, count: r.count, offset: r.offset, hero: true, view: true });
+    const item = (mat) => out.push({ mesh: held.mesh, model: mat, count: held.count, offset: held.offset, hero: true, view: true, local: held.local });
+    if (!held) {
+      const hit = Math.max(strike, push); // coup de poing vers l'avant
+      hand(M.mul(V, M.trs(-0.3 + bobX + 0.1 * hit, -0.37 + bobY + 0.05 * hit, 0.1 + 0.2 * hit, 0.42 - 0.2 * hit, -2.02 - 0.3 * hit, 0.62)));
+    } else if (held.kind === 'tool') {
+      const arm = M.mul(V, M.trs(-0.25 + bobX, -0.2 + bobY - 0.06 * strike, -0.08 + 0.2 * push + 0.12 * strike, 0.2 + 0.3 * strike, -1.66 + 0.22 * this.run + 0.85 * strike - 0.3 * push, 0.58));
+      hand(arm); item(M.mul(M.mul(arm, HOLD.tool), M.trs(0, 0, 0, 0, 0, 0.5)));
+    } else {
+      const sc = held.kind === 'block' ? 0.26 : 0.46, base = M.mul(V, M.trs(-0.29 + bobX + 0.05 * strike, -0.2 + bobY - 0.1 * strike + 0.03 * push, 0.52 + 0.12 * push + 0.08 * strike, 0.62 + 0.25 * strike, 0.26 + 0.6 * strike - 0.3 * push, sc));
+      item(M.mul(base, M.trs(-0.5, held.kind === 'block' ? -0.5 : -0.4, -0.5, 0)));
+    }
     return out;
   }
 }

diff --git a/tools/creative_test.py b/tools/creative_test.py
@@ -15,9 +15,16 @@ with sync_playwright() as p:
     pg.keyboard.press('KeyE'); pg.wait_for_function("document.getElementById('inv').classList.contains('on')",timeout=30000)
     check('inventaire ouvert, 36 cases', pg.evaluate("ALW.invUI.cells.length")==36)
     check('catalogue masqué en survie', pg.evaluate("document.getElementById('invCreative').hidden"))
-    pg.evaluate("ALW.invUI.cells[4].click();ALW.invUI.cells[20].click()")
-    check('échange de cases', pg.evaluate("ALW.inv[4]===null&&ALW.inv[20].item==='dirt'"))
-    pg.evaluate("ALW.invUI.cells[20].click();ALW.invUI.cells[4].click()")
+    def center(i): return pg.evaluate(f"(()=>{{const r=ALW.invUI.cells[{i}].getBoundingClientRect();return [r.x+r.width/2,r.y+r.height/2]}})()")
+    def drag(a,b):
+        pg.mouse.move(*a); pg.mouse.down(); pg.mouse.move((a[0]+b[0])/2,(a[1]+b[1])/2,steps=3); pg.mouse.move(*b,steps=3); pg.mouse.up()
+    drag(center(4),center(20))
+    check('glisser-déposer vers le sac', pg.evaluate("ALW.inv[4]===null&&ALW.inv[20].item==='dirt'"))
+    drag(center(20),center(5))
+    check('glisser sur une case occupée : échange', pg.evaluate("ALW.inv[5].item==='dirt'&&ALW.inv[20].item==='stone'"))
+    drag(center(5),center(4)); drag(center(20),center(5))
+    pg.evaluate("ALW.inv[10]={item:'dirt',n:20}"); drag(center(10),center(4))
+    check('empilage de même objet', pg.evaluate("ALW.inv[4].n===84&&ALW.inv[10]===null"), str(pg.evaluate('ALW.inv[4].n')))
     pg.keyboard.press('KeyE'); pg.wait_for_function("!ALW.paused",timeout=30000)
     # créatif
     pg.keyboard.press('KeyG'); pg.wait_for_function('ALW.creative===true',timeout=30000)
@@ -26,8 +33,10 @@ with sync_playwright() as p:
     pg.evaluate("[...document.querySelectorAll('#catTabs button')][1].click()")
     names=pg.evaluate("[...document.querySelectorAll('#catItems span')].map(b=>b.textContent)"); check('catégorie Roches',('Pierre moussue' in names),str(names))
     pg.screenshot(path='captures/inventaire.png',timeout=90000)
-    pg.evaluate("ALW.select(4);[...document.querySelectorAll('#catItems button')][1].click()")
-    check('bloc du catalogue dans la barre', pg.evaluate("ALW.inv[4].item")=='mossy_stone')
+    r=pg.evaluate("(()=>{const r=document.querySelectorAll('#catItems .cat')[1].getBoundingClientRect();return [r.x+r.width/2,r.y+r.height/2]})()"); drag(r,center(4))
+    check('catalogue glissé vers la barre', pg.evaluate("ALW.inv[4].item")=='mossy_stone')
+    r=pg.evaluate("(()=>{const r=document.querySelectorAll('#catItems .cat')[0].getBoundingClientRect();return [r.x+r.width/2,r.y+r.height/2]})()"); pg.mouse.click(*r)
+    pg.evaluate("ALW.select(4)")
     pg.evaluate("[...document.querySelectorAll('#catTabs button')][4].click()"); nb=pg.evaluate("document.querySelectorAll('#catItems img').length"); check('icônes des plantes',nb==9,str(nb))
     pg.keyboard.press('KeyE'); pg.wait_for_function("!ALW.paused",timeout=30000)
     # vol

diff --git a/tools/poses.py b/tools/poses.py
@@ -5,11 +5,11 @@ from PIL import Image
 from playwright.sync_api import sync_playwright
 W,H=560,340
 side="(()=>{const p=ALW.player.p,y=ALW.player.yaw;const r=[-Math.cos(y),Math.sin(y)],f=[Math.sin(y),Math.cos(y)];const e=[p[0]+r[0]*3.1+f[0]*.9,p[1]+1.5,p[2]+r[1]*3.1+f[1]*.9],t=[p[0],p[1]+1,p[2]],d=[t[0]-e[0],t[1]-e[1],t[2]-e[2]],L=Math.hypot(d[0],d[1],d[2]);ALW.camOverride={eye:e,f:d.map(v=>v/L)};ALW.view.third=true;})()"
-reset="ALW.camOverride=null;ALW.freeze=true;Object.assign(ALW.anim,{walk:0,run:0,low:0,air:0,rise:0,swing:0,punch:0,phase:0,landed:0});ALW.anim.update=()=>{};ALW.fauna.deer=[];ALW.fauna.birds=[];ALW.fauna.update=()=>{};ALW.inv[0]={item:'pickaxe'};ALW.inv[1]={item:'axe'};ALW.inv[2]={item:'sword'};ALW.inv[3]={item:'oak_log',n:9};ALW.inv[4]={item:'lantern',n:9};ALW.inv[5]={item:'stone',n:9};ALW.inv[6]={item:'fern',n:9};"
+reset="ALW.camOverride=null;ALW.freeze=true;Object.assign(ALW.anim,{walk:0,run:0,low:0,air:0,rise:0,swing:0,punch:0,phase:0,landed:0});ALW.anim.update=()=>{};ALW.fauna.deer=[];ALW.fauna.birds=[];ALW.fauna.update=()=>{};ALW.inv[0]={item:'pickaxe'};ALW.inv[1]={item:'axe'};ALW.inv[2]={item:'sword'};ALW.inv[3]={item:'oak_log',n:9};ALW.inv[4]={item:'lantern',n:9};ALW.inv[5]={item:'stone',n:9};ALW.inv[6]={item:'fern',n:9};ALW.inv[7]=null;"
 CASES=[('pioche, côté',side+";ALW.select(0)"),('hache, dos',"ALW.view.third=true;ALW.select(1)"),('épée, côté',side+";ALW.select(2)"),
 ('bûche, côté',side+";ALW.select(3)"),('lanterne, dos',"ALW.view.third=true;ALW.select(4)"),('bûche, 1re',"ALW.view.third=false;ALW.select(5)"),('marche',side+";ALW.select(0);Object.assign(ALW.anim,{walk:1,phase:1.3})"),
 ('sprint',side+";ALW.select(0);Object.assign(ALW.anim,{walk:1,run:1,phase:1.4})"),('accroupi',side+";ALW.select(0);ALW.anim.low=1"),('saut',side+";ALW.select(0);Object.assign(ALW.anim,{air:1,rise:1})"),
-('minage',side+";ALW.select(0);ALW.anim.swing=.5"),('1re pers. pioche',"ALW.view.third=false;ALW.select(0);ALW.player.pitch=-.1"),('1re pers. bûche',"ALW.view.third=false;ALW.select(3);ALW.player.pitch=-.1"),
+('minage',side+";ALW.select(0);ALW.anim.swing=.5"),('1re poing',"ALW.view.third=false;ALW.select(7);ALW.player.pitch=-.1"),('1re poing frappe',"ALW.view.third=false;ALW.select(7);ALW.anim.swing=.5"),('1re pers. fougère',"ALW.view.third=false;ALW.select(6)"),('1re pers. pioche',"ALW.view.third=false;ALW.select(0);ALW.player.pitch=-.1"),('1re pers. bûche',"ALW.view.third=false;ALW.select(3);ALW.player.pitch=-.1"),
 ('1re pers. épée',"ALW.view.third=false;ALW.select(2)"),('1re pers. minage',"ALW.view.third=false;ALW.select(1);ALW.anim.swing=.35")]
 if len(sys.argv)>2: CASES=[c for c in CASES if '1re' in c[0]]
 with sync_playwright() as p:

diff --git a/tools/touch_test.py b/tools/touch_test.py
@@ -24,7 +24,13 @@ with sync_playwright() as p:
     pg.tap('#tRun',timeout=60000,force=True); pg.wait_for_function("ALW.input.keys.has('ShiftLeft')",timeout=30000); check('bouton sprint',True); pg.tap('#tRun',timeout=60000,force=True)
     pg.tap('#tLow',timeout=60000,force=True); pg.wait_for_function('ALW.input.keys.has("ControlLeft")',timeout=30000); check('bouton accroupi',True); pg.tap('#tLow',timeout=60000,force=True)
     pg.tap('#tView',timeout=60000,force=True); pg.wait_for_function('ALW.view.third===false',timeout=30000); check('bouton première personne',True); pg.tap('#tView',timeout=60000,force=True)
-    pg.tap('#tInv',timeout=60000,force=True); pg.wait_for_function('ALW.invOpen===true',timeout=30000); check('bouton inventaire',True); pg.tap('#invClose',timeout=60000); pg.wait_for_function('!ALW.paused',timeout=30000)
+    pg.tap('#tInv',timeout=60000,force=True); pg.wait_for_function('ALW.invOpen===true',timeout=30000); check('bouton inventaire',True)
+    cdp=c.new_cdp_session(pg)
+    def at(i): return pg.evaluate(f"(()=>{{const r=ALW.invUI.cells[{i}].getBoundingClientRect();return {{x:r.x+r.width/2,y:r.y+r.height/2}}}})()")
+    a,z=at(5),at(22); T=lambda t,pts: cdp.send('Input.dispatchTouchEvent',{'type':t,'touchPoints':pts})
+    T('touchStart',[a]); T('touchMove',[{'x':(a['x']+z['x'])/2,'y':(a['y']+z['y'])/2}]); T('touchMove',[z]); T('touchEnd',[])
+    pg.wait_for_function("ALW.inv[22]&&ALW.inv[22].item==='stone'&&ALW.inv[5]===null",timeout=30000); check('glisser-déposer au doigt',True)
+    pg.tap('#invClose',timeout=60000); pg.wait_for_function('!ALW.paused',timeout=30000)
     pg.tap('#tMenu',timeout=60000,force=True)
     pg.wait_for_function('ALW.paused===true',timeout=30000); check('menu ouvert',True)
     pg.tap('#btnResume',timeout=60000)
